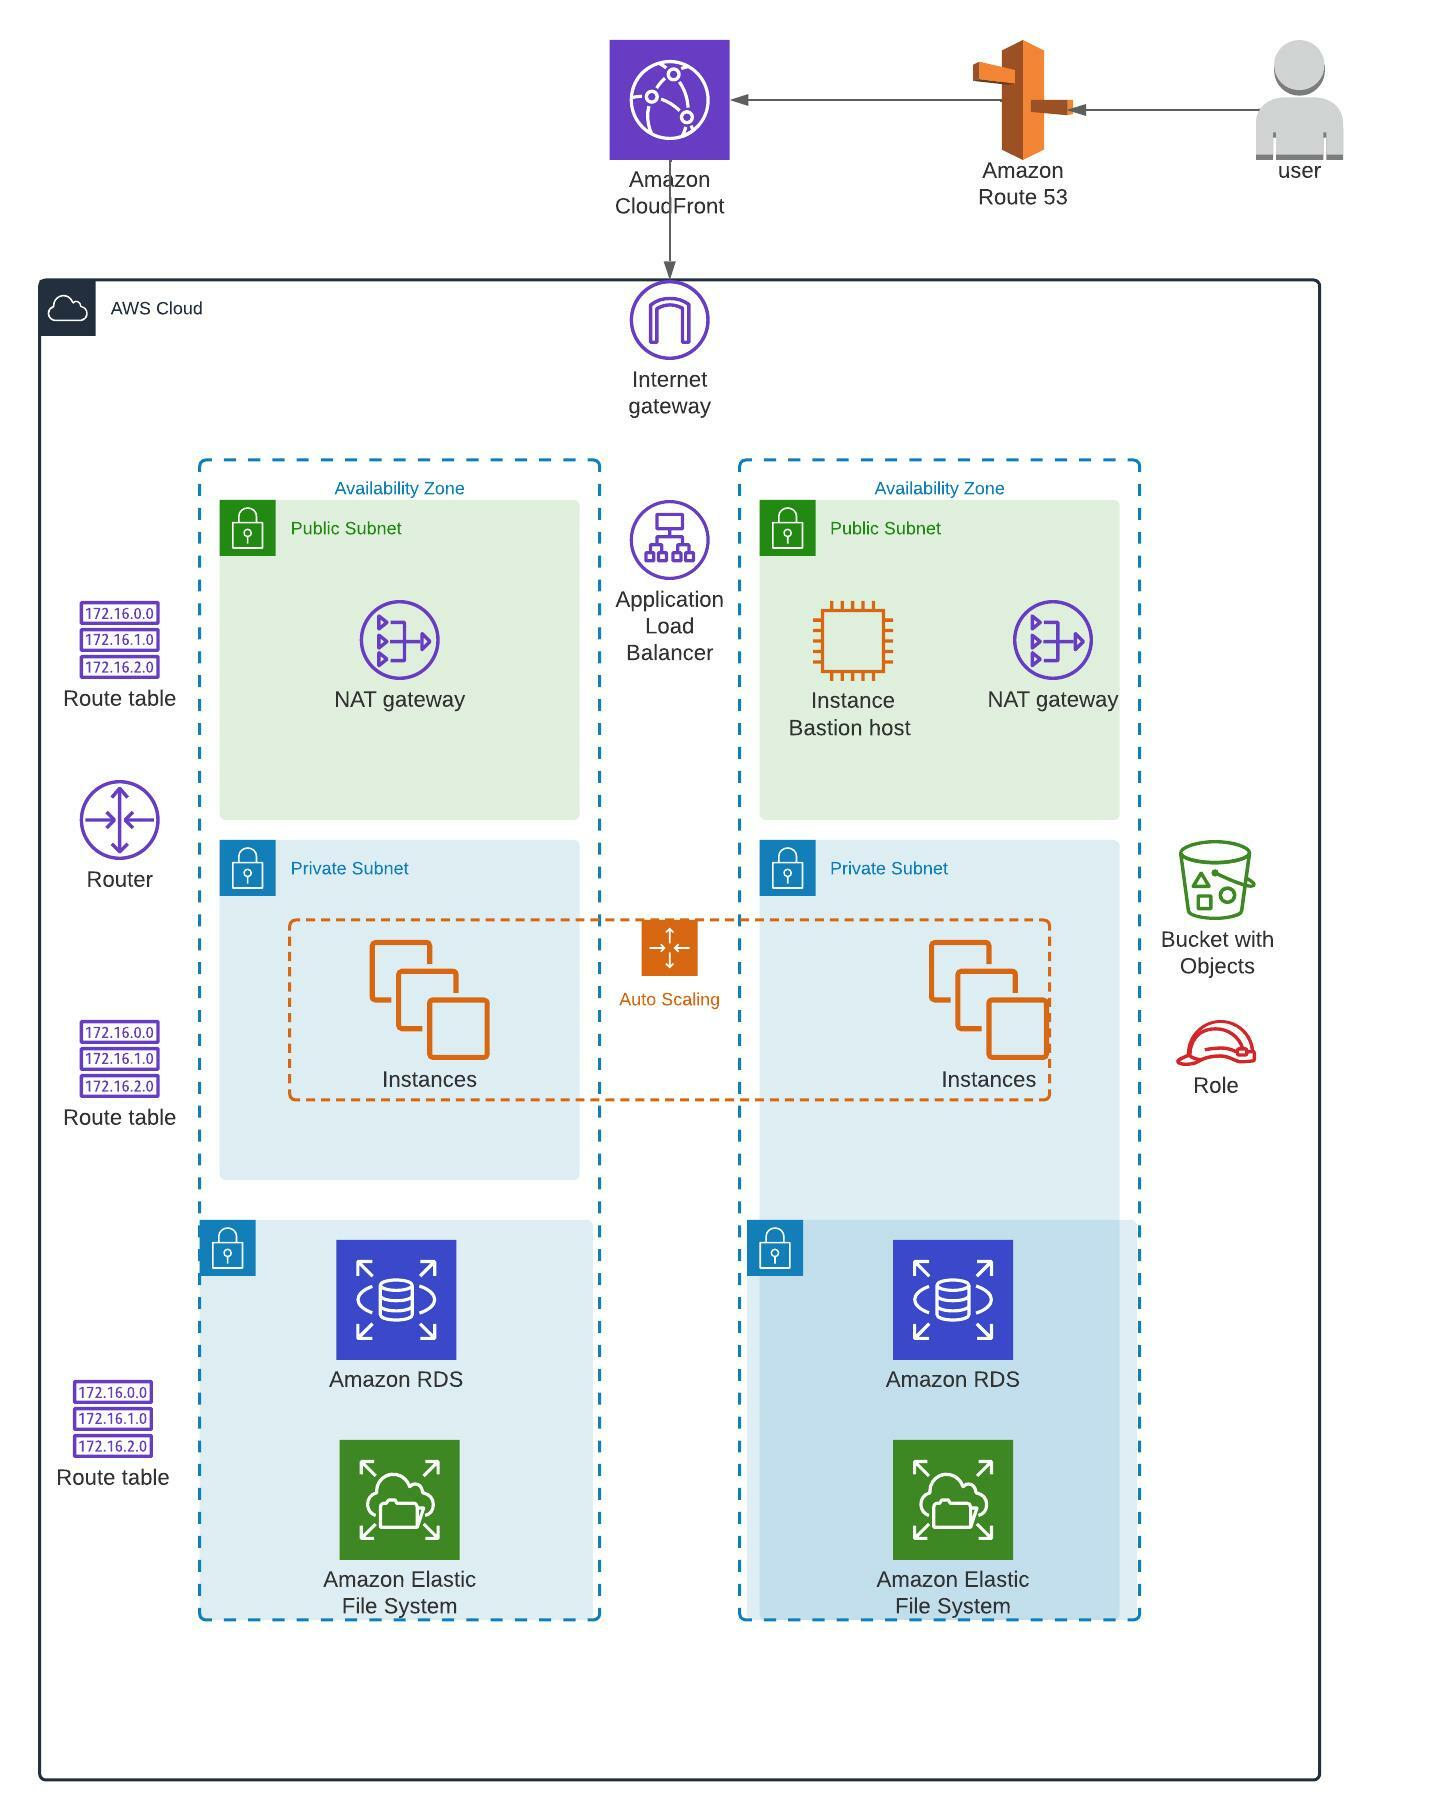
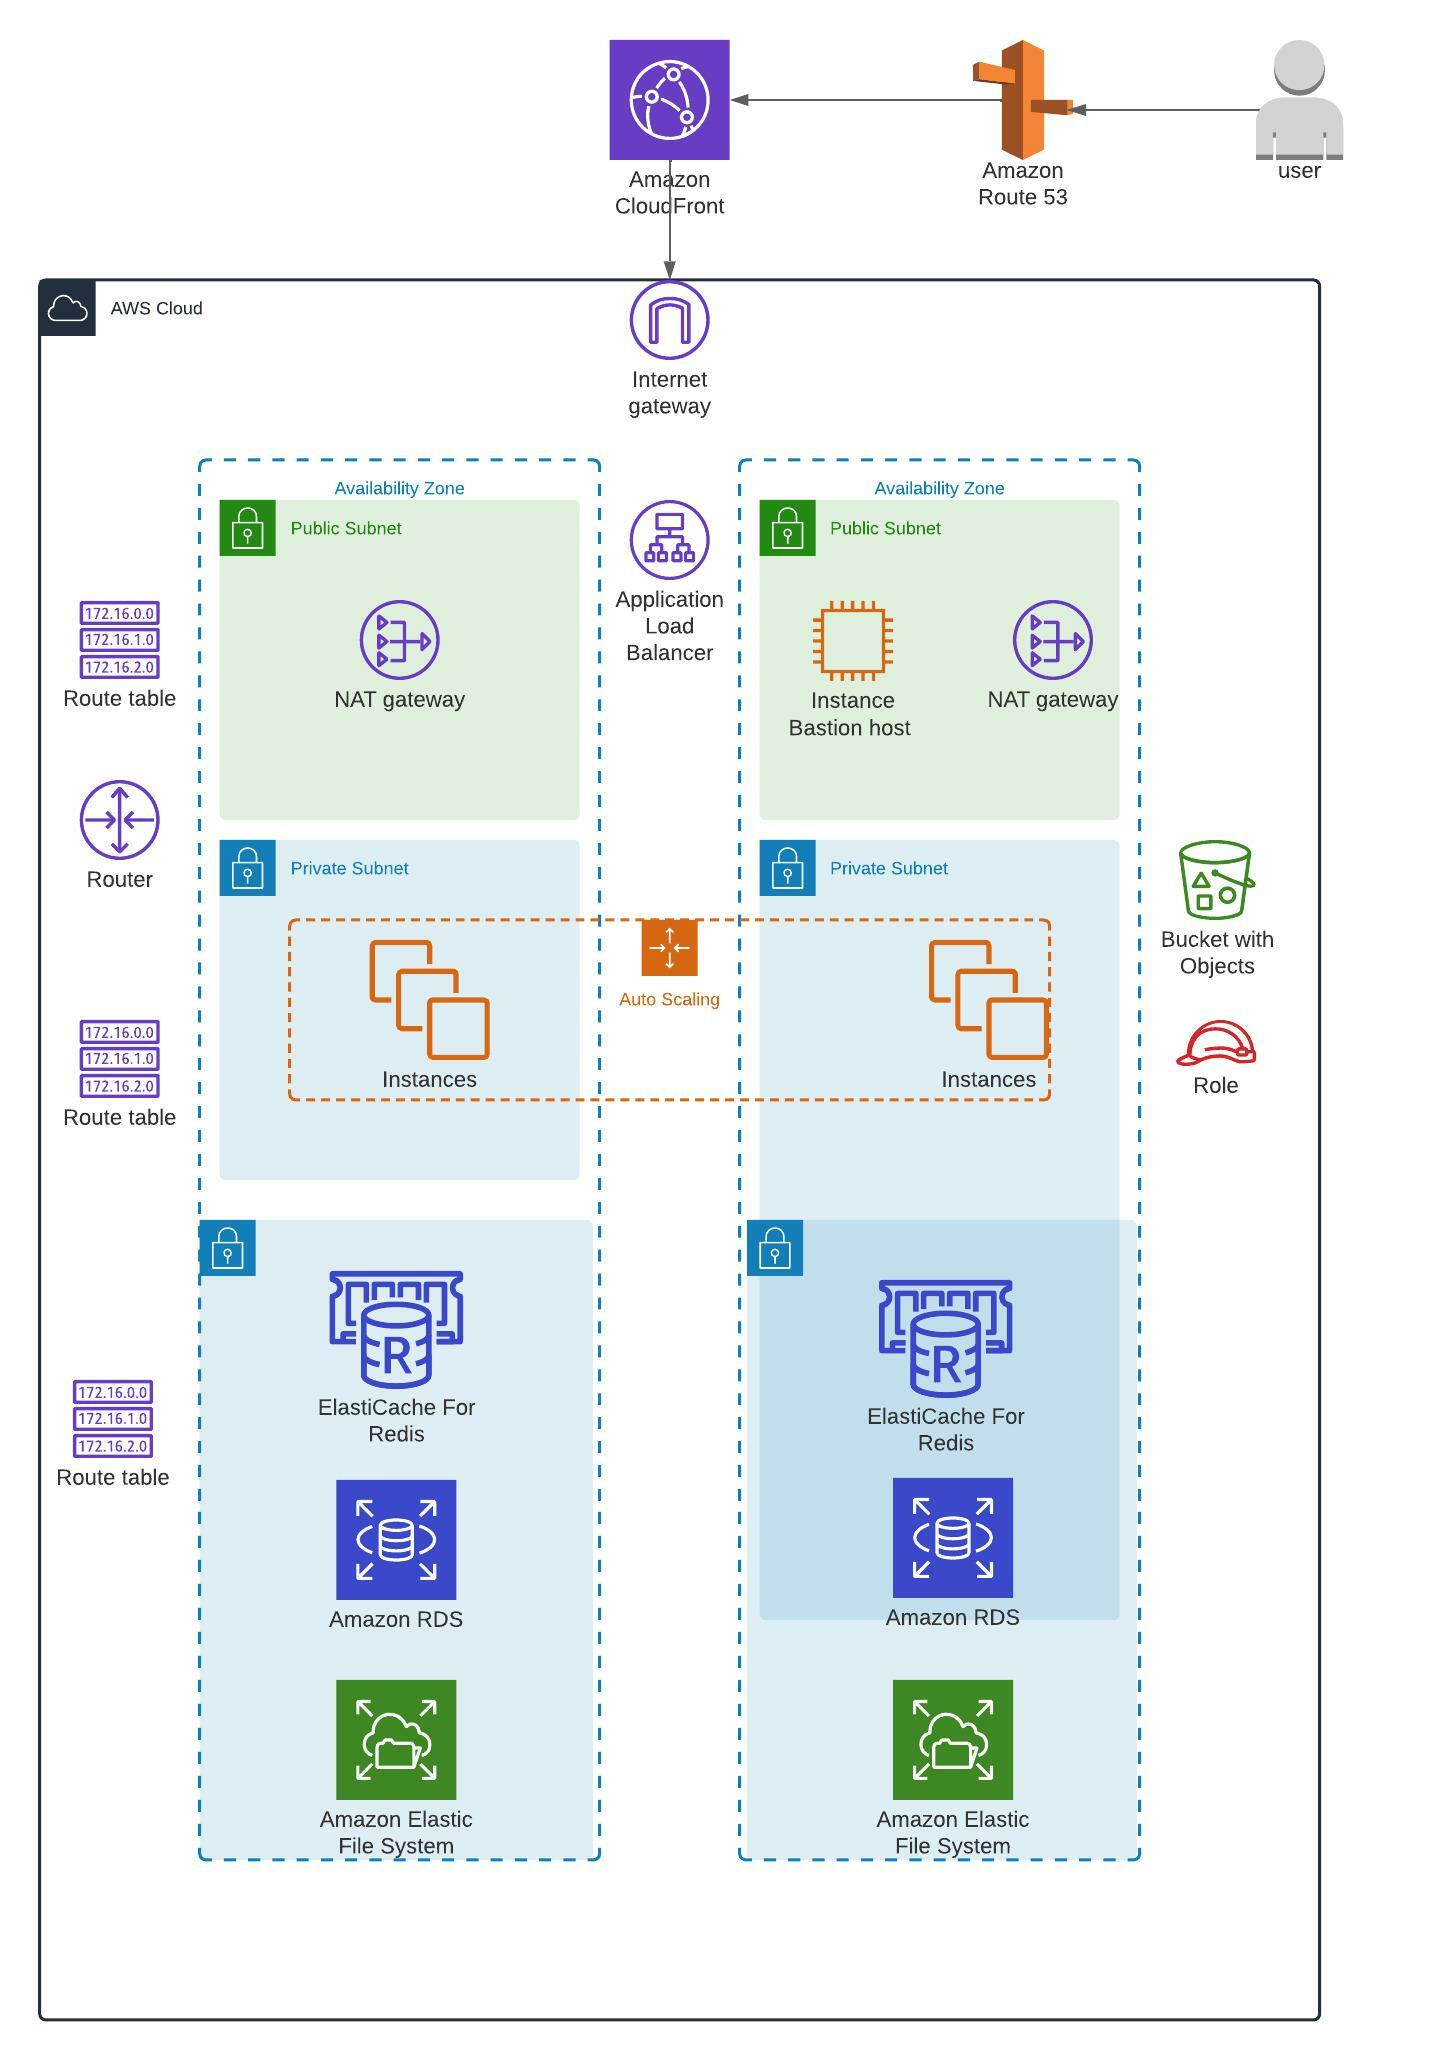
adding cache layer

diff --git a/README.md b/README.md
@@ -35,6 +35,7 @@ Terraform manages the deployment.
 * 1 x CDN distribution
 * 2 X EFS mount target
 * 1 x RDS
+* 2 x ElastiCache (Redis)
 
 **Getting started**
 
@@ -75,6 +76,7 @@ Deploy the code in your AWS account with Terraform
 |-- cdn.tf                  # Cloudfront distribution
 |-- rds.tf                  # MySQL
 |-- efs.tf                  # Share filesystem
+|-- elasticache.tf          # Cache layer
 |-- output.tf               # Output values
 |-- /bootstraping           # Initialization script
 |-- /ansible                # Ansible playbook
